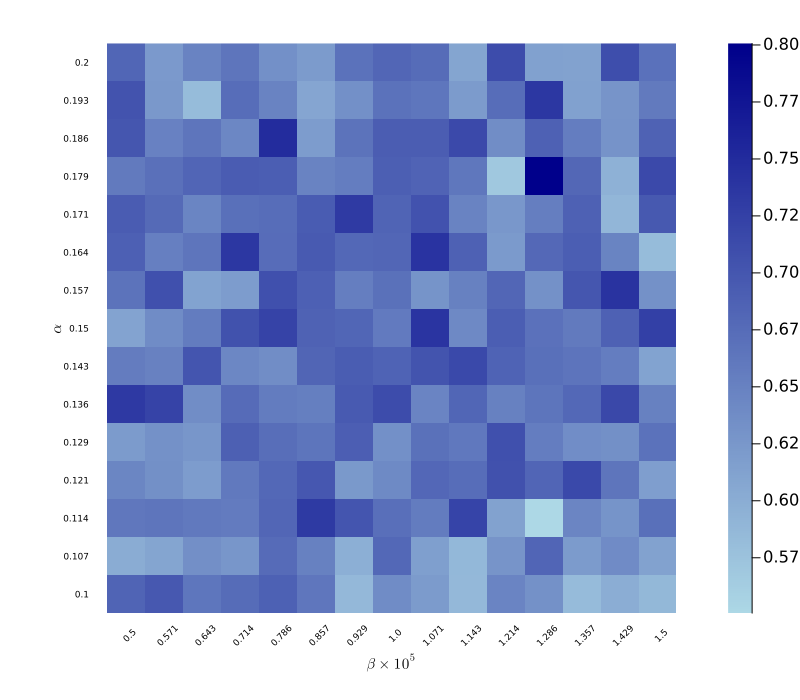
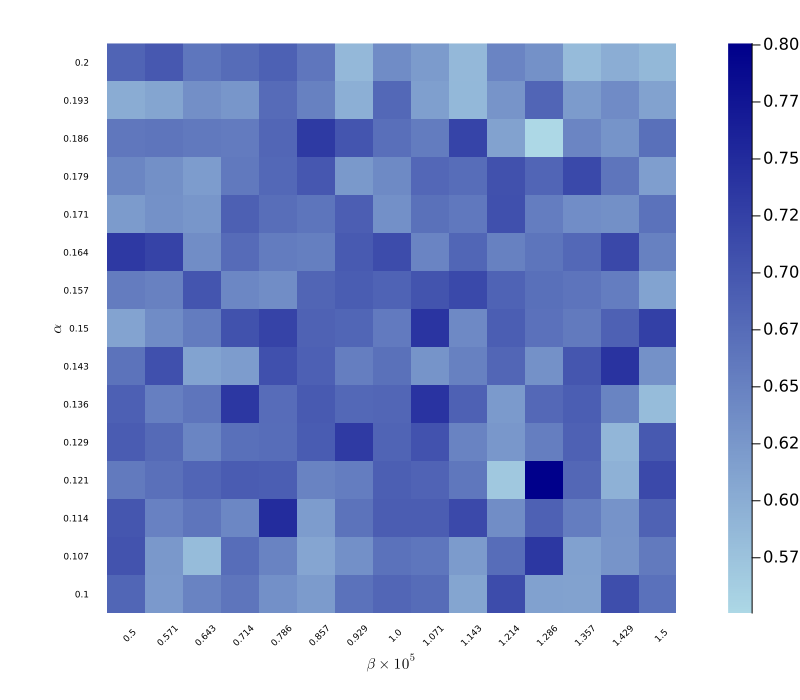
added convergence rates

diff --git a/calvano_slides/slides.tex b/calvano_slides/slides.tex
@@ -262,16 +262,22 @@
 	\end{center}
 \end{frame}
 
-
-
-\begin{frame}\frametitle{25 Runs, $(1-\delta)$}
+\begin{frame}\frametitle{25 Runs, with $(1-\delta)$}
 	\begin{center}
 		\includegraphics[width=9cm]{heatmap_profit_gain_25_delta.png}
 	\end{center}
 \end{frame}
 
-
-
+\begin{frame}\frametitle{Convergence Rates, no $(1-\delta)$}
+	\begin{center}
+		\includegraphics[width=9cm]{heatmap_convergence_counts_25_nodelta.png}
+	\end{center}
+\end{frame}
+\begin{frame}\frametitle{Convergence Rates, with $(1-\delta)$}
+	\begin{center}
+		\includegraphics[width=9cm]{heatmap_convergence_counts_25_delta.png}
+	\end{center}
+\end{frame}
 
 
 
